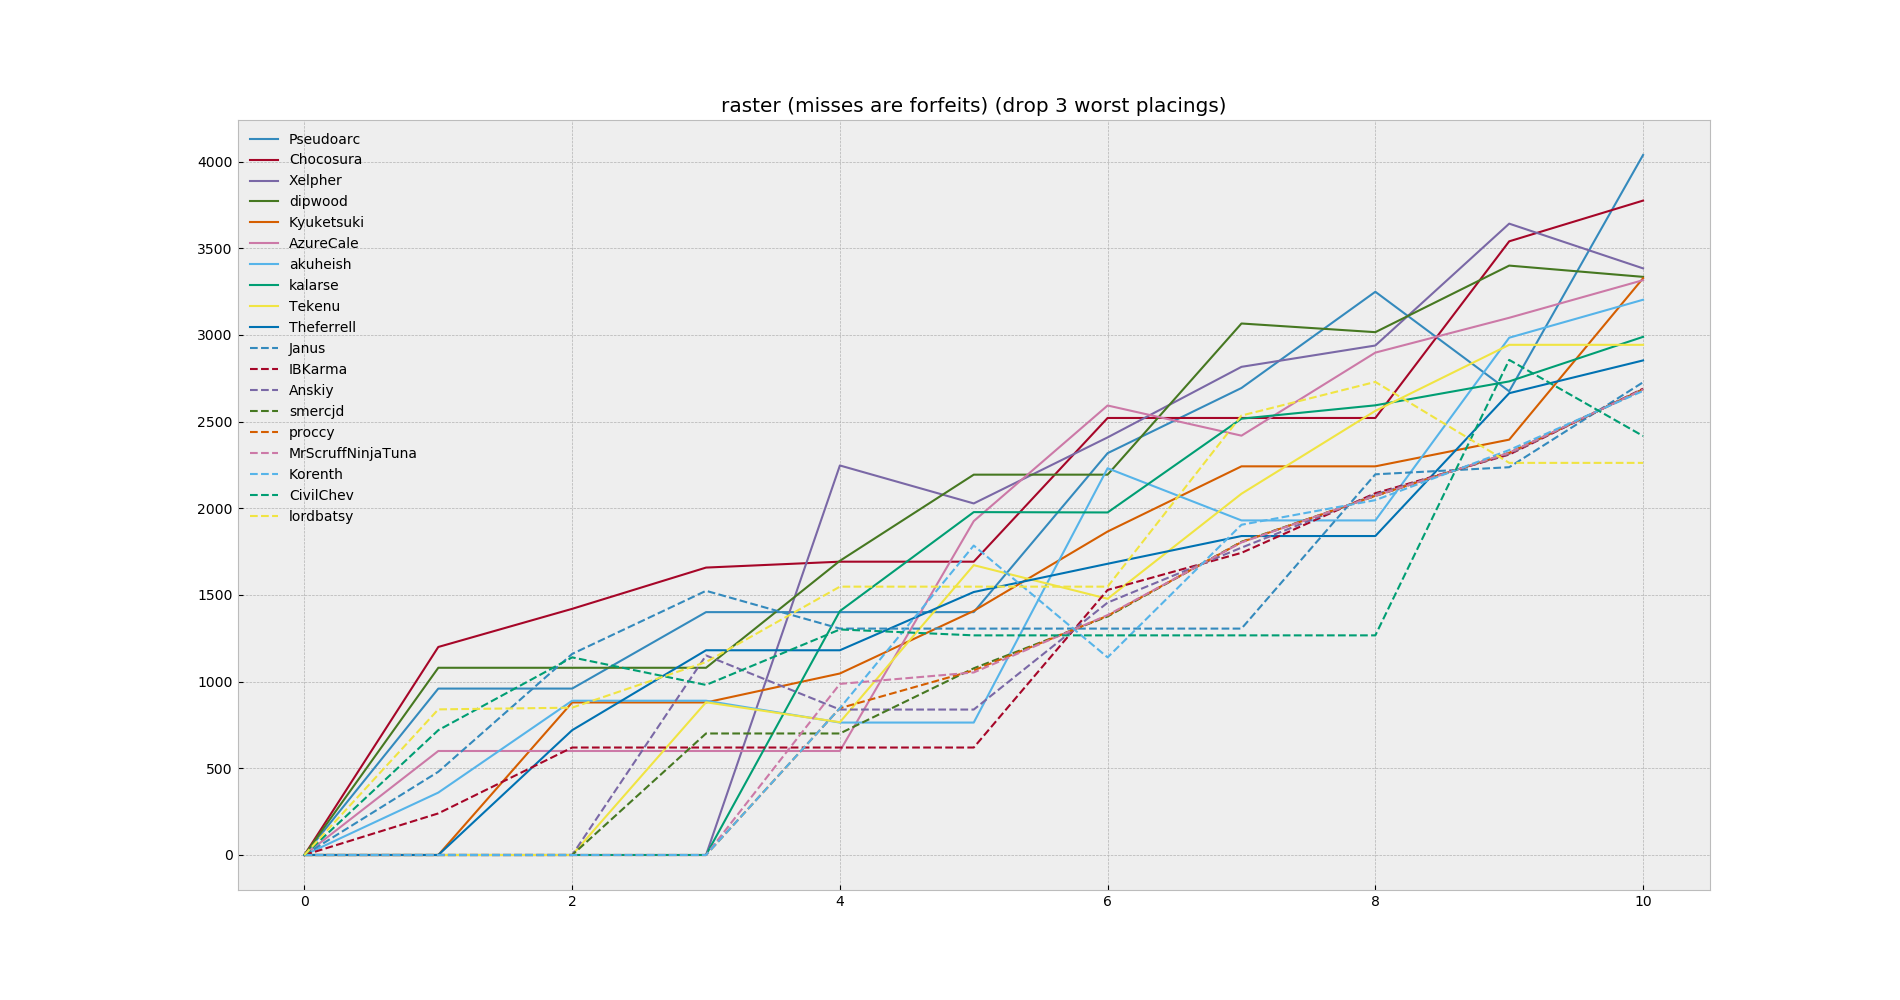
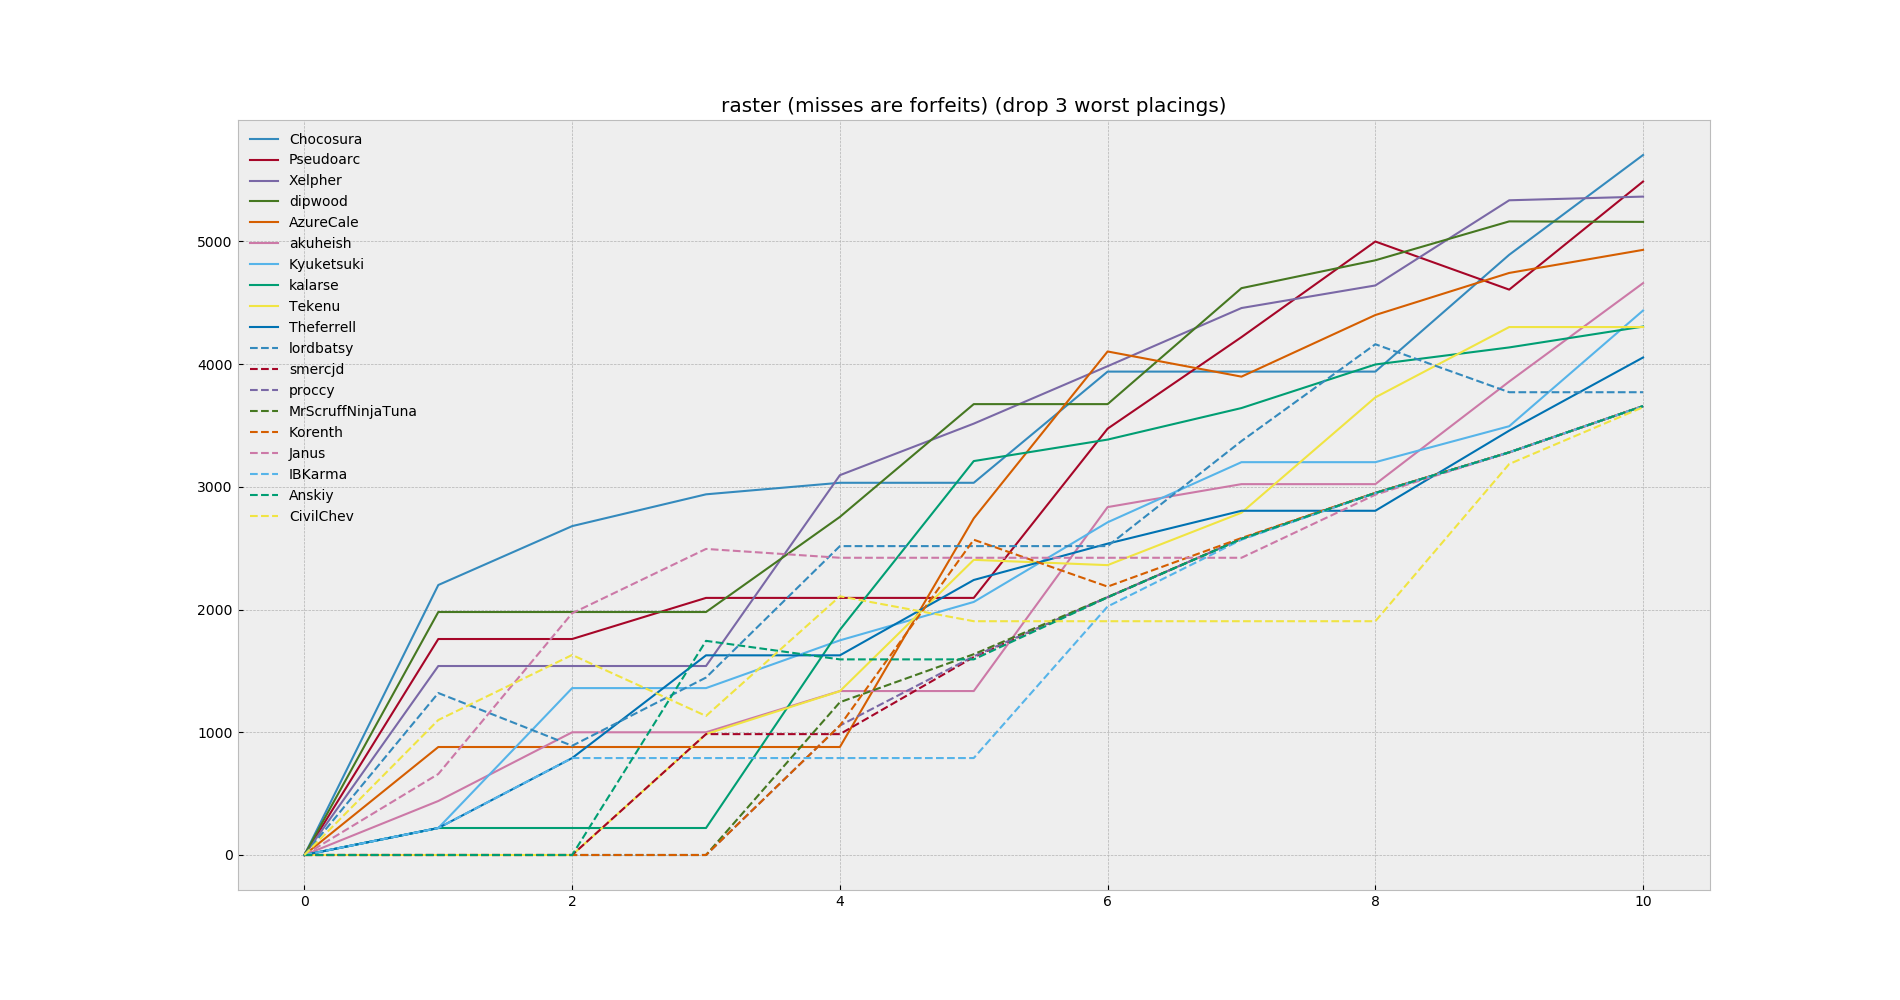
add integrated drop for rasterlogic

diff --git a/rasterlogic.py b/rasterlogic.py
@@ -1,6 +1,7 @@
 import copy
 import util
 import decimal
+import preprocess
 
 def rankdiff(nplay, expected, actual):
     #print("\t", nplay, actual-expected)
@@ -57,7 +58,7 @@ def rankdiffs(race, ranks, denom, denom_as_nplay=False, maxscore=100, minscore=1
 def first_race_denom(race):
     return len(util.finishers(race) | set(race["forfeits"]) | set(race["nonparticipants"]))
 
-def raceranks(races, startval=0, maxscore=100, minscore=10, step=-10, forfeitscore=0):
+def _raceranks(races, startval=0, maxscore=100, minscore=10, step=-10, forfeitscore=0, drop=None):
     denom = first_race_denom(races[0])
     ranks = [dict([(p, startval) for p in util.all_players(races)])] + [None for r in range(len(races))]
     print("Race 1")
@@ -70,8 +71,18 @@ def raceranks(races, startval=0, maxscore=100, minscore=10, step=-10, forfeitsco
         forfeits = set(race["forfeits"])
         diffs = rankdiffs(races[r], ranks[r], denom, False, maxscore, minscore, step, forfeitscore, startval=startval)
         for player in diffs.keys():
-            ranks[r+1][player] = int(decimal.Decimal(ranks[r+1].get(player, startval) + diffs[player]).quantize(decimal.Decimal('1'), rounding=decimal.ROUND_HALF_UP))
+            if (drop is not None) and (r in drop.get(player, [])):
+                ranks[r+1][player] = ranks[r][player]
+            else:
+                ranks[r+1][player] = int(decimal.Decimal(ranks[r+1].get(player, startval) + diffs[player]).quantize(decimal.Decimal('1'), rounding=decimal.ROUND_HALF_UP))
     return ranks
+
+def raceranks(races, startval=0, maxscore=100, minscore=10, step=-10, forfeitscore=0, drop_count=None):
+    if drop_count is None:
+        return _raceranks(races, startval=startval, maxscore=100, minscore=10, step=-10, forfeitscore=0)
+    else:
+        drops = preprocess.get_worst_n(races, drop_count)
+        return _raceranks(races, startval=startval, maxscore=100, minscore=10, step=-10, forfeitscore=0, drop=drops)
 
 if __name__ == "__main__":
     import races

diff --git a/cmdline.py b/cmdline.py
@@ -54,6 +54,7 @@ def get_settings(logic):
     elif lt == "raster":
         import rasterlogic
         raceranks = rasterlogic.raceranks
+        hasIntegratedDrop = True
     elif lt == "rasteradjusted":
         import rasteradjusted
         raceranks = rasteradjusted.raceranks
